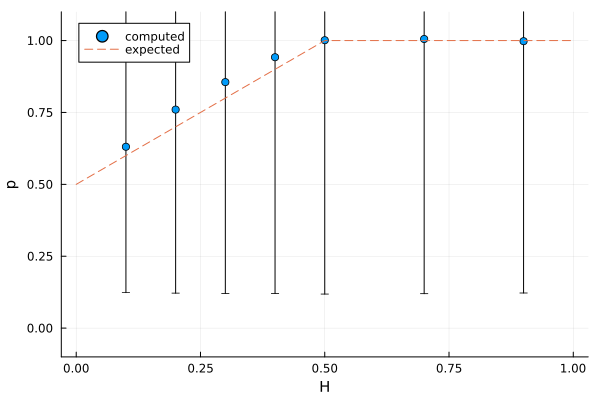
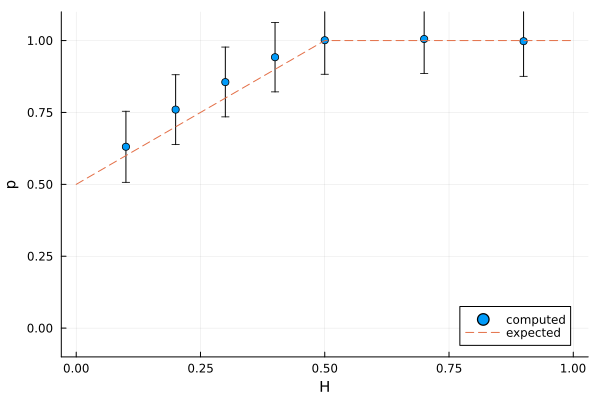
fix error bars fBm error dep on H

diff --git a/docs/src/examples/05-fBm_linear.md b/docs/src/examples/05-fBm_linear.md
@@ -149,7 +149,7 @@ The following plot helps visualizing the result.
 
 ````@example 05-fBm_linear
 plt = plot(ylims=(-0.1, 1.1), xaxis="H", yaxis="p", guidefont=10)
-scatter!(plt, collect(hursts), ps, yerror=[pmins pmaxs], label="computed")
+scatter!(plt, collect(hursts), ps, yerror=(ps .- pmins, pmaxs .- ps), label="computed")
 plot!(plt, 0.0:0.01:1.0, p -> min(p + 0.5, 1.0), linestyle=:dash, label="expected")
 ````
 
